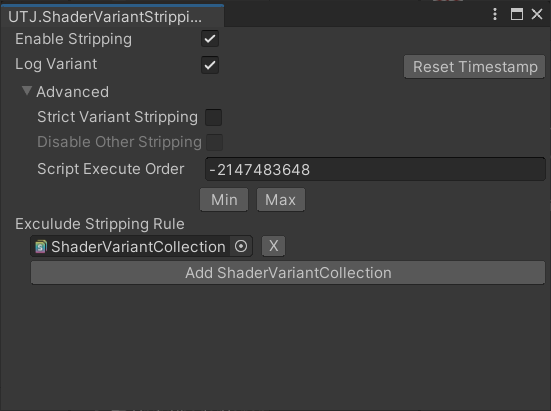
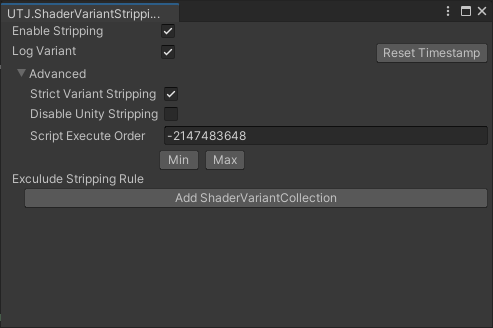
change disable other -> disable Unity

diff --git a/Editor/StrippingConfigWindow.cs b/Editor/StrippingConfigWindow.cs
@@ -19,7 +19,7 @@ namespace UTJ.ShaderVariantStripping
         private Toggle enableToggle;
         private Toggle logToggle;
         private Toggle strictModeToggle;
-        private Toggle disableOtherToggle;
+        private Toggle disableUnityStrip;
         private IntegerField orderIntField;
 
         private Button executeOrderMinBtn;
@@ -43,7 +43,7 @@ namespace UTJ.ShaderVariantStripping
             enableToggle = this.rootVisualElement.Q<Toggle>("Enabled");
             logToggle = this.rootVisualElement.Q<Toggle>("LogEnable");
             strictModeToggle = this.rootVisualElement.Q<Toggle>("StrictVariantStripping");
-            disableOtherToggle = this.rootVisualElement.Q<Toggle>("DisalbeOthers");
+            disableUnityStrip = this.rootVisualElement.Q<Toggle>("DisableUnityStrip");
 
             orderIntField = this.rootVisualElement.Q<IntegerField>("ExecuteOrder");
             executeOrderMinBtn = this.rootVisualElement.Q<Button>("ExecOrderMinBtn");
@@ -58,13 +58,13 @@ namespace UTJ.ShaderVariantStripping
             enableToggle.SetValueWithoutNotify(StripShaderConfig.IsEnable);
             logToggle.SetValueWithoutNotify(StripShaderConfig.IsLogEnable);
             strictModeToggle.SetValueWithoutNotify(StripShaderConfig.StrictVariantStripping);
-            disableOtherToggle.SetValueWithoutNotify(StripShaderConfig.DisableOtherStipper);
+            disableUnityStrip.SetValueWithoutNotify(StripShaderConfig.DisableUnityStrip);
             orderIntField.SetValueWithoutNotify(StripShaderConfig.Order);
 
             enableToggle.RegisterValueChangedCallback(OnChangeEnabbleToggle);
             logToggle.RegisterValueChangedCallback(OnChangeLogEnabbleToggle);
             strictModeToggle.RegisterValueChangedCallback(OnChangeStrictModeToggle);
-            disableOtherToggle.RegisterValueChangedCallback(OnChangeDisableOthersToggle);
+            disableUnityStrip.RegisterValueChangedCallback(OnChangeDisableUnityStripToggle);
 
             resetTimestampBtn.clicked += OnClickResetTimestamp;
 
@@ -96,15 +96,15 @@ namespace UTJ.ShaderVariantStripping
             StripShaderConfig.StrictVariantStripping = val.newValue;
             SetUIActiveAtStrictMode(val.newValue);
         }
-        private void OnChangeDisableOthersToggle(ChangeEvent<bool> val)
+        private void OnChangeDisableUnityStripToggle(ChangeEvent<bool> val)
         {
-            StripShaderConfig.DisableOtherStipper = val.newValue;
+            StripShaderConfig.DisableUnityStrip = val.newValue;
         }
 
         private void SetUIActiveAtEnabled(bool enabled)
         {
             strictModeToggle.SetEnabled(enabled);
-            disableOtherToggle.SetEnabled(enabled);
+            disableUnityStrip.SetEnabled(enabled);
             orderIntField.SetEnabled(enabled);
 
             orderIntField.SetEnabled(enabled);
@@ -114,8 +114,8 @@ namespace UTJ.ShaderVariantStripping
 
         private void SetUIActiveAtStrictMode(bool enabled)
         {
-            disableOtherToggle.SetEnabled(enabled);
-            disableOtherToggle.SetValueWithoutNotify(StripShaderConfig.DisableOtherStipper);
+            disableUnityStrip.SetEnabled(enabled);
+            disableUnityStrip.SetValueWithoutNotify(StripShaderConfig.DisableUnityStrip);
         }
 
         private void OnLostFocusIntField(FocusOutEvent evt)

diff --git a/Editor/StripShaderConfig.cs b/Editor/StripShaderConfig.cs
@@ -15,7 +15,7 @@ namespace UTJ.ShaderVariantStripping
             public bool enabled;
             public bool logEnabled;
             public bool strictVariantStripping;
-            public bool disableOtherStipper;
+            public bool disableUnityStrip;
             public int order;
             public List<string> excludeVariantCollection;
         }
@@ -56,7 +56,7 @@ namespace UTJ.ShaderVariantStripping
                 currentConfig.strictVariantStripping = value;
                 if (!value)
                 {
-                    DisableOtherStipper = false;
+                    DisableUnityStrip = false;
                 }
                 SaveConfigData();
                 if (backupFlag != ShouldRemoveOther)
@@ -78,16 +78,16 @@ namespace UTJ.ShaderVariantStripping
                 SaveConfigData();
             }
         }
-        public static bool DisableOtherStipper
+        public static bool DisableUnityStrip
         {
             get
             {
-                return currentConfig.disableOtherStipper;
+                return currentConfig.disableUnityStrip;
             }
             set
             {
                 var backupFlag = ShouldRemoveOther;
-                currentConfig.disableOtherStipper = value;
+                currentConfig.disableUnityStrip = value;
                 SaveConfigData();
                 if (backupFlag != ShouldRemoveOther)
                 {
@@ -100,7 +100,7 @@ namespace UTJ.ShaderVariantStripping
         {
             get
             {
-                return currentConfig.enabled & currentConfig.strictVariantStripping & currentConfig.disableOtherStipper;
+                return currentConfig.enabled & currentConfig.strictVariantStripping & currentConfig.disableUnityStrip;
             }
         }
 
@@ -118,7 +118,7 @@ namespace UTJ.ShaderVariantStripping
                 {
                     enabled = true,
                     strictVariantStripping = false,
-                    disableOtherStipper = false,
+                    disableUnityStrip = false,
                     logEnabled = true,
                     order = int.MinValue,
                 };

diff --git a/Editor/Unity.Editor.RemoveShaderPostProcessor.Codegen/ConfigReader.cs b/Editor/Unity.Editor.RemoveShaderPostProcessor.Codegen/ConfigReader.cs
@@ -33,7 +33,7 @@ namespace UTJ.ShaderVariantStripping.CodeGen
             string str = File.ReadAllText(ConfigFile);
             bool enabled = GetFlag(str, "enabled");
             bool strictMode = GetFlag(str, "strictVariantStripping");
-            bool disableOthers = GetFlag(str,"disableOtherStipper");
+            bool disableUnityStrip = GetFlag(str, "disableUnityStrip");
 
             /*
             System.IO.File.WriteAllText("debug.txt",
@@ -41,7 +41,7 @@ namespace UTJ.ShaderVariantStripping.CodeGen
                 "strictMode:" + strictMode + "\n" +
                 "disableOthers:" + disableOthers + "\n" );
             */
-            ExecuteRemoveOthers = enabled & strictMode & disableOthers;
+            ExecuteRemoveOthers = enabled & strictMode & disableUnityStrip;
         }
 
 

diff --git a/Editor/Unity.Editor.RemoveShaderPostProcessor.Codegen/ILRemoveOtherShaderProcessor.cs b/Editor/Unity.Editor.RemoveShaderPostProcessor.Codegen/ILRemoveOtherShaderProcessor.cs
@@ -30,8 +30,14 @@ namespace UTJ.ShaderVariantStripping.CodeGen
             {
                 return false;
             }
+            if ( !compiledAssembly.Name.StartsWith("Unity.") &&
+                compiledAssembly.Name.StartsWith("UnityEngine.") )
+            {
+                return false;
+            }
 
-            if(compiledAssembly.Name == "UTJ.StripVariant"){
+
+            if (compiledAssembly.Name == "UTJ.StripVariant"){
                 return false;
             }
             var isForEditor = compiledAssembly.Defines?.Contains("UNITY_EDITOR") ?? false;

diff --git a/README.md b/README.md
@@ -4,7 +4,7 @@
 Find the ShaderVariantCollection in the project and exclude unregistered variants from the build.
 You can change the behaiour in the settings window (  "UTJ/ShaderVariantStrip"  ).
 
-## 設定画面について
+## about Setting Window
 ![alt text](Documentation~/ConfigWindow.png)
 
 ### Enable Stripping
@@ -24,8 +24,8 @@ When enabled, Shaders that are not in the ShaderVariantCollection will be delete
 When disabled, shaders that are not in the ShaderVariantCollection is not performed by any special strip processing.
 
 
-### DisableOther Stripping
-Enabling this feature will remove the processing of other IPreprocessShaders such as Universal RenderPipeline.<br />
+### Disable Unity Stripping
+Enabling this feature will remove the IPreprocessShaders under the "Unity." or "UnityEngine.".( such as Universal RenderPipeline. )<br />
 If Strict Variant Stripping is not enabled, you cannot use this feature.
 *It's implemented by rewriting IL code.
 

diff --git a/README.ja.md b/README.ja.md
@@ -23,8 +23,8 @@ Strip処理を行うかどうかを指定します。
 無効の場合は、ShaderVariantCollectionにないShaderは特に特別なStrip処理は行いません。
 
 
-### DisableOther Stripping
-有効にすることでUniversal RenderPipelineなど 他のIPreprocessShadersの処理を消します。<br />
+### Disable Unity Stripping
+有効にすることで、「UnityEngine.」「Unity.」 以下にある IPreprocessShadersの処理を消します。(Universal RenderPipelineにあるものを無効にするなど出来ます)<br />
 Strict Variant Strippingが有効になっていないと、こちらの機能は使う事が出来ません。<br />
 ※IL書き換えによって実現します
 
